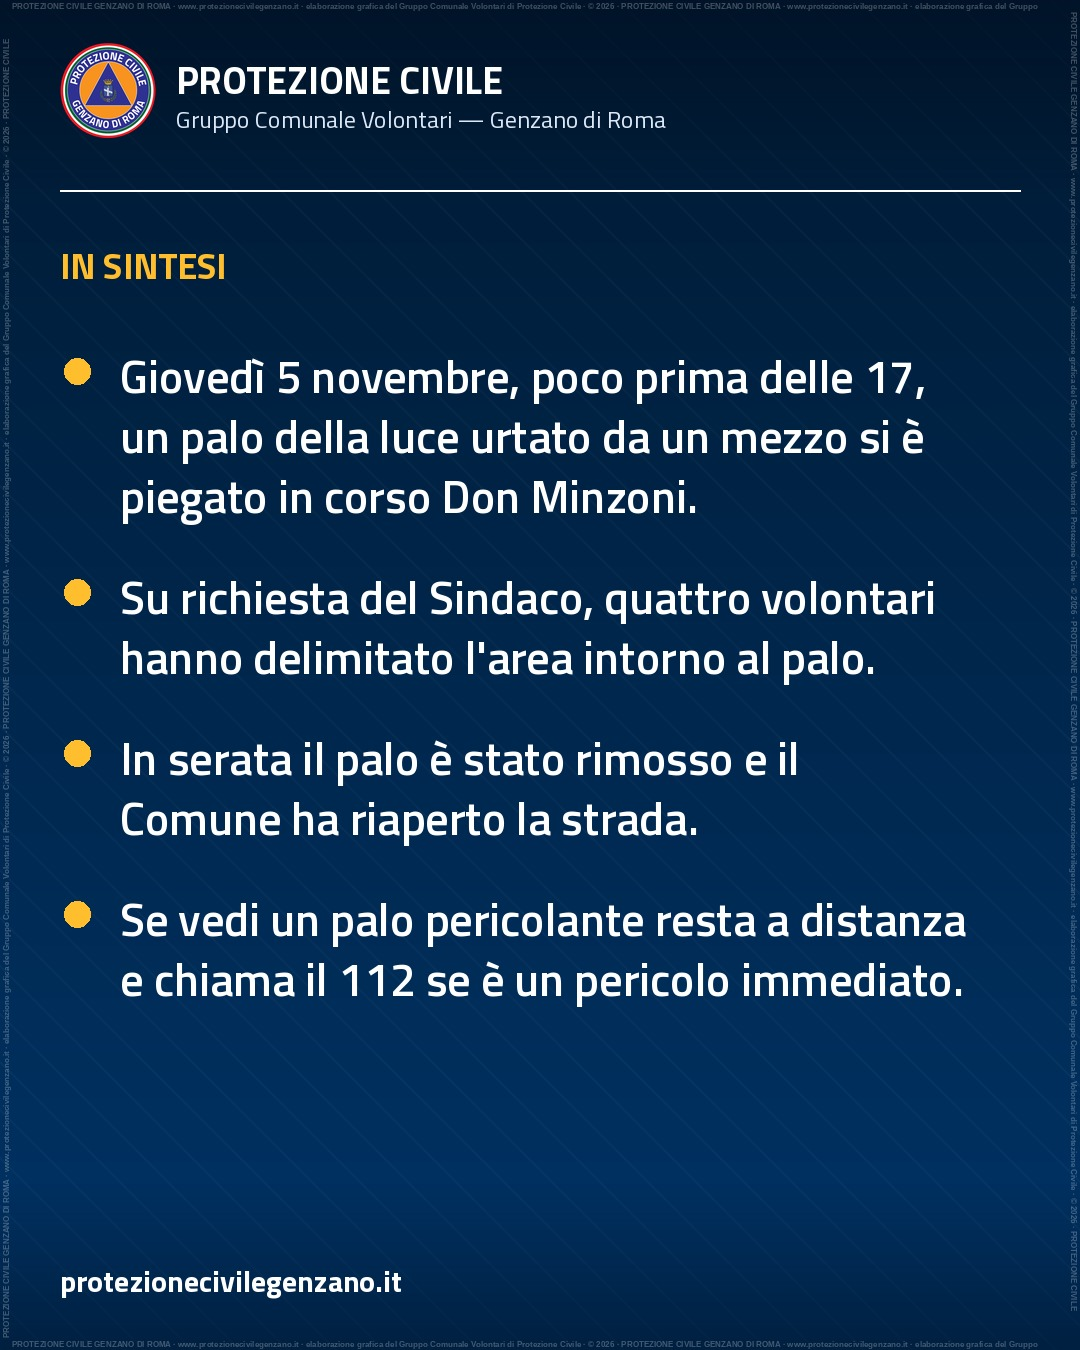
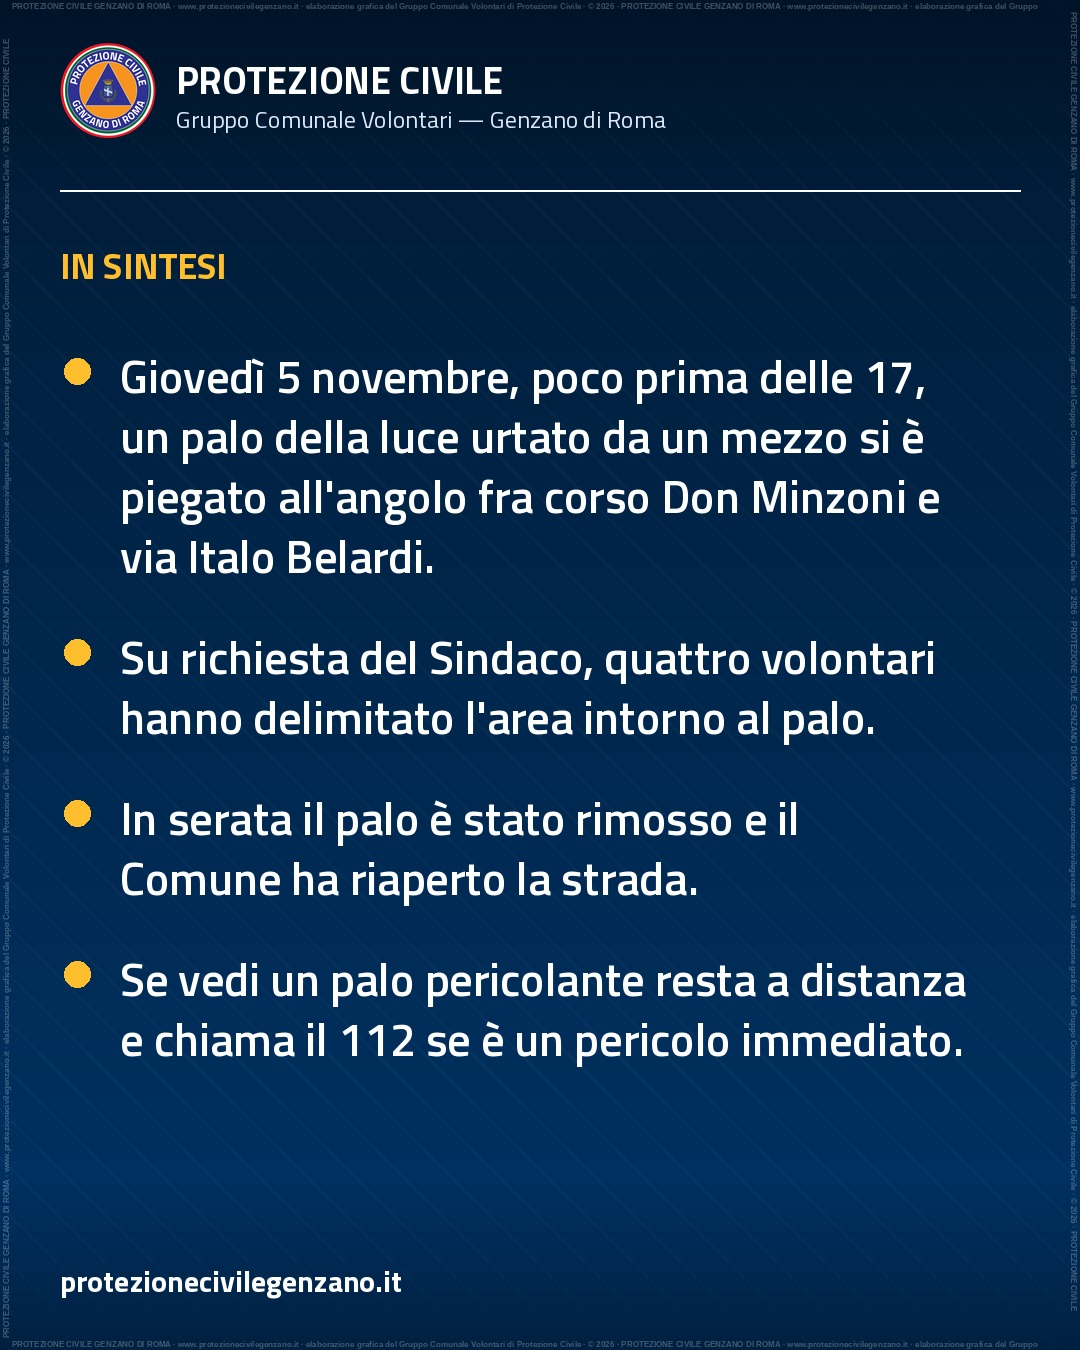
Resoconto del 5 novembre: il palo era all'angolo fra corso Don Minzoni e via Italo Belardi

Changed region(s): [[0.0611, 0.3422, 0.9167, 0.8089], [0.6111, 0.3422, 0.8861, 0.4044], [0.3972, 0.3422, 0.5806, 0.4044]]

diff --git a/content/comunicazioni/2026-11-05-palo-luce-via-belardi-messa-in-sicurezza.md b/content/comunicazioni/2026-11-05-palo-luce-via-belardi-messa-in-sicurezza.md
@@ -14,13 +14,13 @@ draft: false
 tts: true
 social_citazione: "Un palo o un cartello che si inclina non si tocca e non si raddrizza: ci si allontana e si lascia spazio a chi lo mette in sicurezza."
 social_punti:
-  - "Giovedì 5 novembre, poco prima delle 17, un palo della luce urtato da un mezzo si è piegato in corso Don Minzoni."
+  - "Giovedì 5 novembre, poco prima delle 17, un palo della luce urtato da un mezzo si è piegato all'angolo fra corso Don Minzoni e via Italo Belardi."
   - "Su richiesta del Sindaco, quattro volontari hanno delimitato l'area intorno al palo."
   - "In serata il palo è stato rimosso e il Comune ha riaperto la strada."
   - "Se vedi un palo pericolante resta a distanza e chiama il 112 se è un pericolo immediato."
 ---
 
-Giovedì **5 novembre 2026**, poco prima delle 17, un **palo della pubblica illuminazione** in **corso Don Giovanni Minzoni**, nel centro di Genzano di Roma, è stato urtato da un mezzo in movimento: la base si è spezzata e il palo si è piegato di lato. Su richiesta del **Sindaco**, quattro volontari del Gruppo sono intervenuti per mettere in sicurezza la zona.
+Giovedì **5 novembre 2026**, poco prima delle 17, un **palo della pubblica illuminazione** all'angolo fra **corso Don Giovanni Minzoni** e **via Italo Belardi**, nel centro di Genzano di Roma, è stato urtato da un mezzo in movimento: la base si è spezzata e il palo si è piegato di lato. Su richiesta del **Sindaco**, quattro volontari del Gruppo sono intervenuti per mettere in sicurezza la zona.
 
 Sul posto c'erano anche i **Vigili del Fuoco** e la **Polizia Locale** di Genzano e di Ariccia. Il Comune ha chiuso in via precauzionale il tratto di strada interessato.
 
@@ -77,4 +77,4 @@ Il Gruppo Comunale non può essere attivato direttamente dai cittadini. In emerg
 
 **Fonti:**
 
-- Per il resoconto: registro degli interventi del Gruppo, rapporto approvato 223/2026, che indica il luogo in via Italo Belardi, la strada che comincia a pochi metri. Dati aggregati nella pagina [Open data](/open-data/).
+- Per il resoconto: registro degli interventi del Gruppo, rapporto approvato 223/2026. Dati aggregati nella pagina [Open data](/open-data/).
